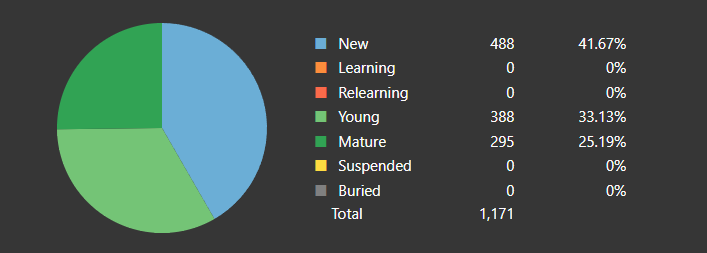
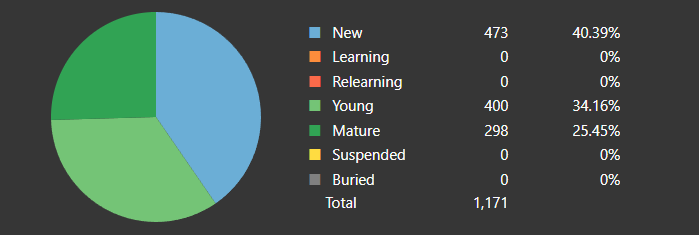
Updating card counts and adding macros

diff --git a/main.py b/main.py
@@ -1,0 +1,14 @@
+
+def define_env(env):
+  """
+    This is the hook for defining variables, macros and filters
+
+    - variables: the dictionary that contains the environment variables
+    - macro: a decorator function, to declare a macro.
+    - filter: a function with one of more arguments,
+        used to perform a transformation
+  """
+
+  @env.macro
+  def card_counts():
+    return

diff --git a/docs/index.md b/docs/index.md
@@ -6,9 +6,9 @@ At some point, I do plan on scripting this out. But for now, I'll just update it
 
 ### Card Counts
 
-#### Tango N5 as of _10/24/2023_ 
+#### Tango N5 as of _10/27/2023_ 
 
-**683** Vocabulary words known with 488 new cards remaining: On track to finish all new cards on **_November 28th_** doing 15 new cards a day. Then I'll start Tango N4 with the same new card amount.
+**698** Vocabulary words known with 473 new cards remaining: On track to finish all new cards on **_November 28th_** doing 15 new cards a day. Then I'll start Tango N4 with the same new card amount.
 
 ![Card Counts](./assets/anki-stats/card-counts.png){ align=center }
 
